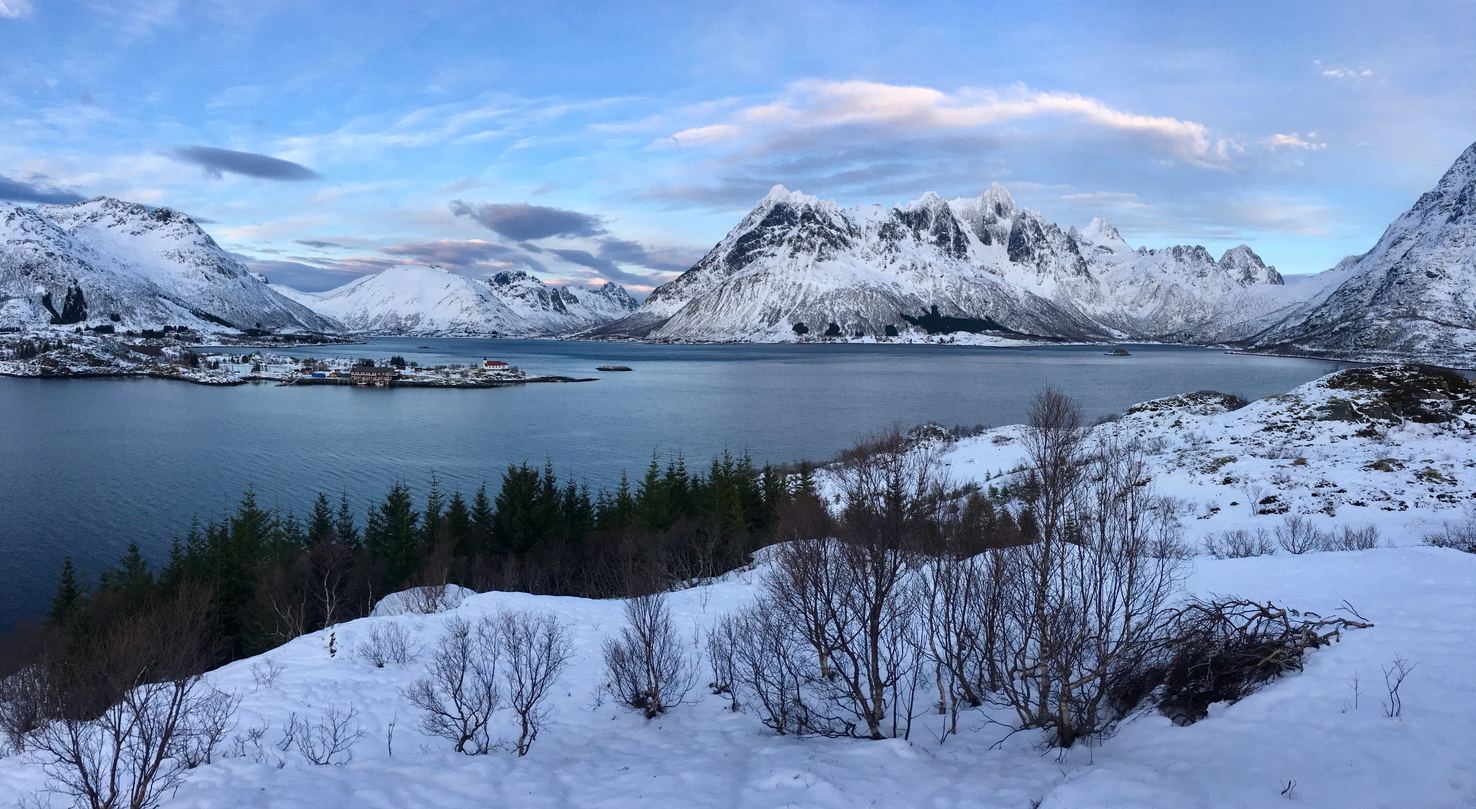
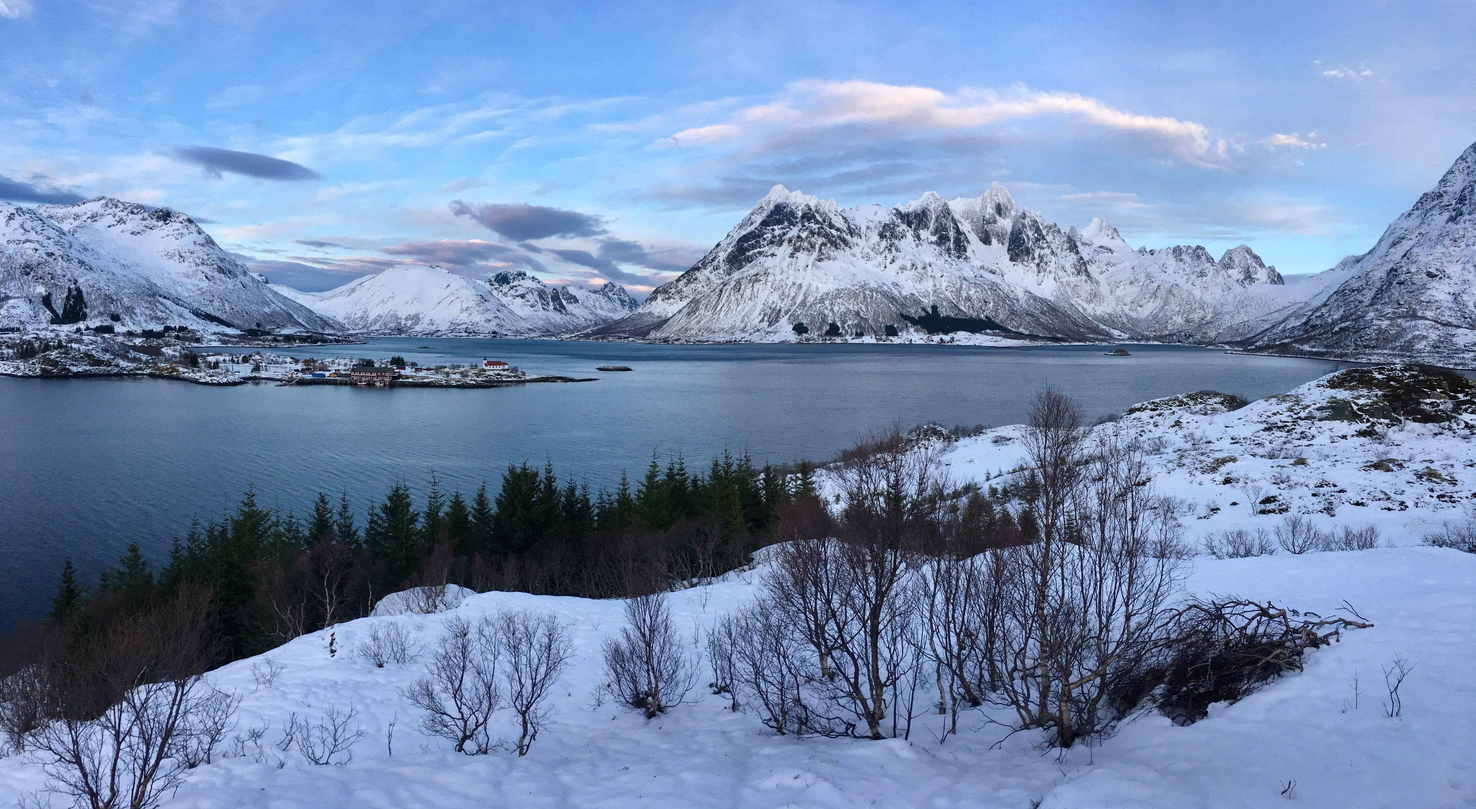
rework index mobile

Changed region(s): [[0.6842, 0.6836, 0.7775, 0.7146], [0.7153, 0.5903, 0.7464, 0.6214]]

diff --git a/index.html b/index.html
@@ -42,7 +42,7 @@
 			</div>
 			
 			<div class="section whoAreWe">	
-				<img style="width:100%; margin-bottom:5%;" src="img/Index/banner.jpg" class="img-responsive mobile"/>			
+				<img style="width:100%; margin-bottom:5%;" src="img/Index/bannerMobile.jpg" class="img-responsive mobile"/>			
 				<div class="two-50-percent wrapper">
 					<div>
 						<div>
@@ -84,10 +84,10 @@
 				<div class="caption" style="width: 80%;">
 						<img style="width:100%; margin-bottom:5%;" src="img/Index/bonusIndex.jpg" class="img-responsive mobile"/>
 					<p id="index_pedalForYou" class="fontTitle imgTextColor textCenter"></p>
-					<img style="width:100%; margin-bottom:5%;" src="img/Index/panorama2.jpg" class="img-responsive mobile"/>
+					<img style="width:100%; margin-bottom:5%;" src="img/Index/panorama2Mobile.jpg" class="img-responsive mobile"/>
 				</div>
 			</div>
-			
+		
 			<div id="about-this-website" class="section ourPlan">
 				<div>
 					<p id="index_aboutthiswebsite" class="title fontTitle2 paddingBottom1"></p>
